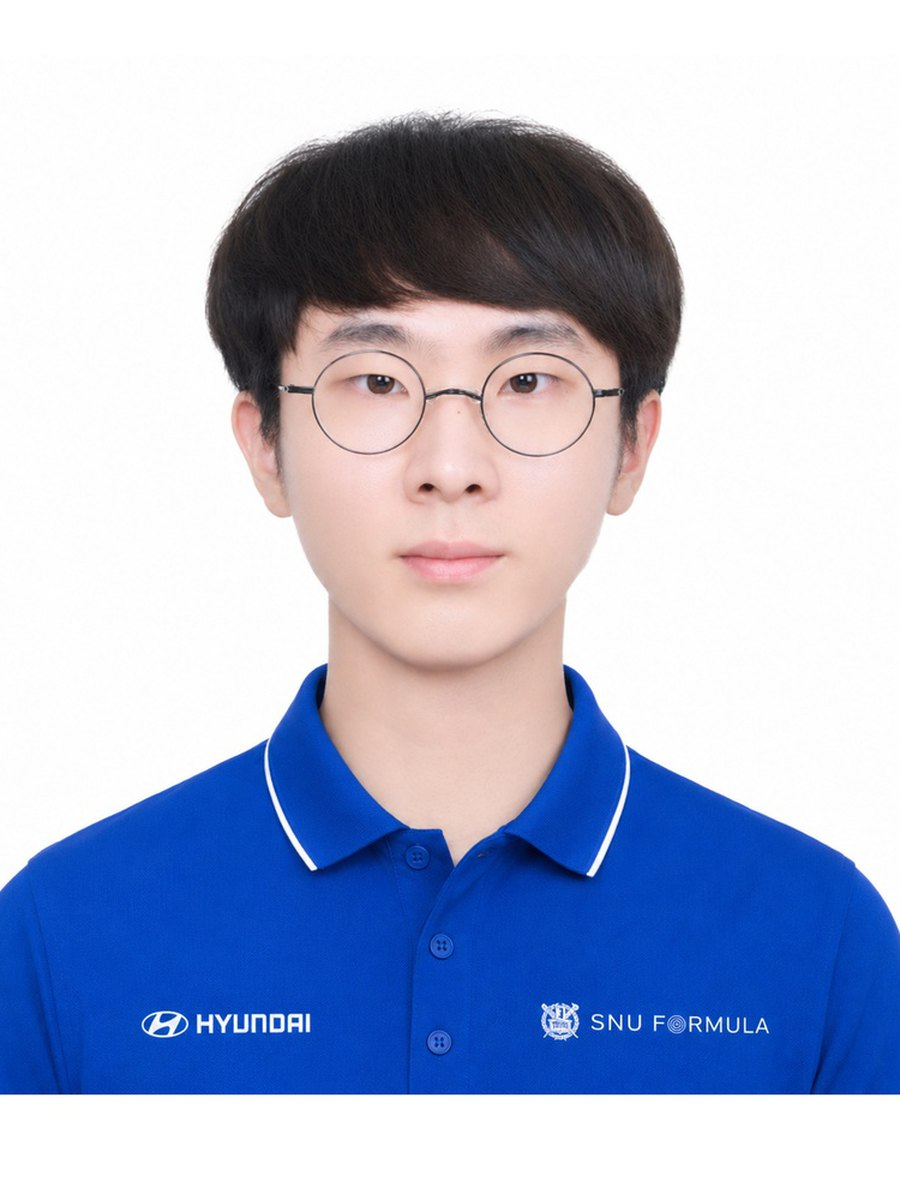
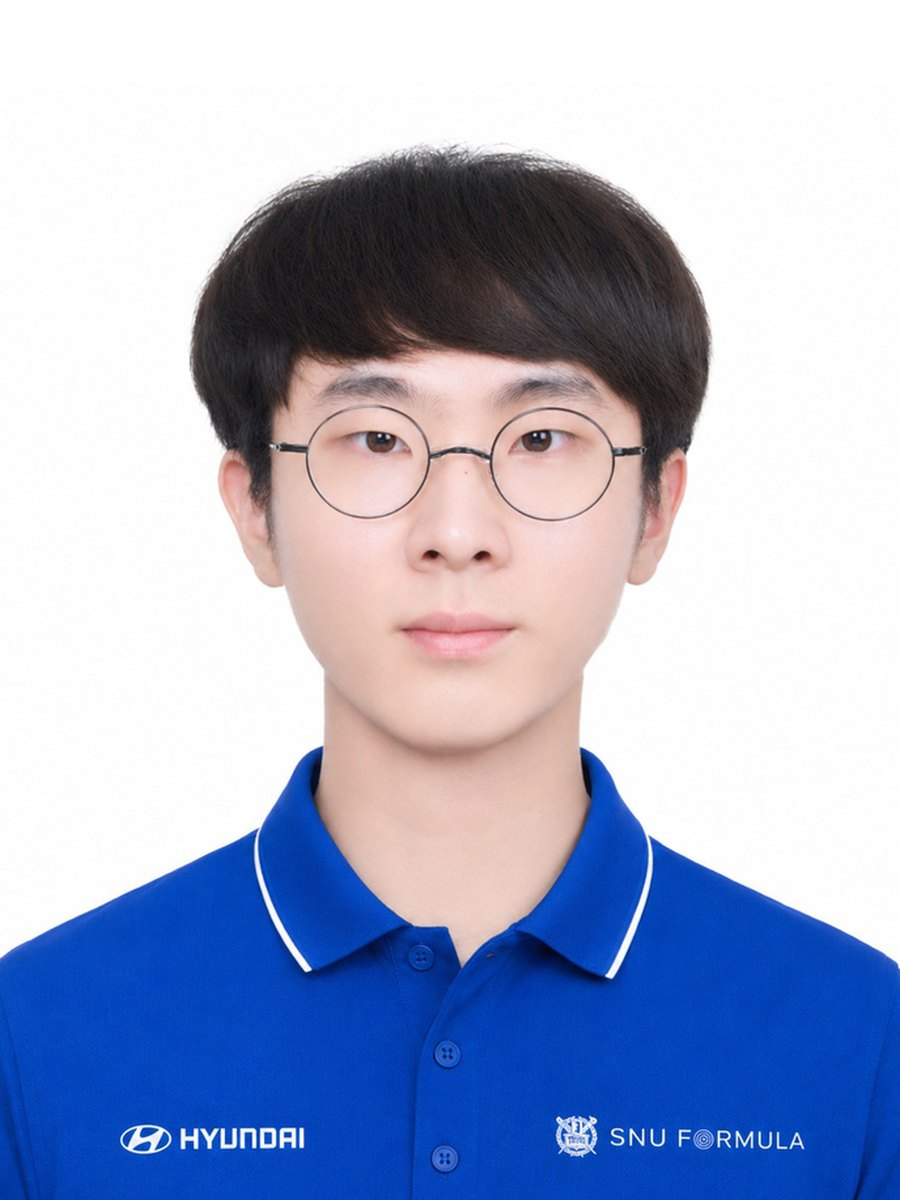
fix(members): align every portrait and put schooling on one line
The portraits were cropped to a fixed 3:4 window on the source, so head
size, head position and the amount of empty space above each person all
differed, and the chest logos landed at different heights - visible on
some cards, cropped off on others.

Each portrait is now built from two measured anchors instead:

  - the top of the head always lands at 12% of the card height
  - the bottom of the HYUNDAI / SNU FORMULA chest logo always lands at 96%

Both are measured per photo: the head from the subject silhouette against
the backdrop, the logo from the last white cluster sitting inside the blue
of the shirt. Head size then varies by a few percent between people, which
is far less visible than a logo line that wanders.

Anchoring this way needs almost no invented content - seven of the eleven
photos crop from the source untouched. Four are a little short below the
logo (유민우's runs to 3px from the frame edge), so the shirt is continued
for 16-42 rows by repeating a clean strip of that person's own fabric,
colour-matched at the join and smoothed across it. Backdrops are pulled to
a common white so the set reads as one shoot.

High school moves out of the detail list and joins the university on the
.roster-major line, as "고등학교 · 대학교 학과". Members without one show
the university alone. The roster-bio and roster-pending rules go with it.

diff --git a/team/index.html b/team/index.html
@@ -79,10 +79,8 @@
                     규격은 같은 폴더의 README.md 참고 (3:4, 900×1200, JPG).
                     alt에는 "한글이름 (ROMANIZED NAME)"을 적습니다.
           2) 이름 : .roster-name
-          3) 학과 : .roster-major
-          4) 약력 : .roster-bio 의 <li>. 지금은 고등학교만 넣었고, 고등학교가
-                    없는 구성원은 <ul class="roster-bio"> 블록을 통째로
-                    비워둡니다. 줄을 늘려도 레이아웃은 유지됩니다.
+          3) 학력 : .roster-major 한 줄에 몰아서 적습니다. 고등학교가 있으면
+                    "고등학교 · 대학교 학과" 순서로, 없으면 대학교만 적습니다.
 
         사진이 아직 없는 구성원은 <figure class="roster-photo"> 안의 <img>
         대신 아래 한 줄을 넣으면 자리표시자가 나옵니다.
@@ -181,12 +179,9 @@
                       <span class="lang lang-en">KIM MINGYU</span>
                     </h3>
                     <p class="roster-major">
-                      <span class="lang lang-ko">서울대학교 전기정보공학부 학사 · 재료공학부 석사</span>
-                      <span class="lang lang-en">BS Electrical &amp; Computer Engineering · MS Materials Science, SNU</span>
+                      <span class="lang lang-ko">한국과학영재학교 · 서울대학교 전기정보공학부 학사, 재료공학부 석사</span>
+                      <span class="lang lang-en">Korea Science Academy of KAIST · BS Electrical &amp; Computer Engineering, MS Materials Science, SNU</span>
                     </p>
-                    <ul class="roster-bio">
-                      <li><span class="lang lang-ko">한국과학영재학교</span><span class="lang lang-en">Korea Science Academy of KAIST</span></li>
-                    </ul>
                   </div>
                 </article>
                 <article class="roster-card">
@@ -230,12 +225,9 @@
                       <span class="lang lang-en">KIM MINWOO</span>
                     </h3>
                     <p class="roster-major">
-                      <span class="lang lang-ko">서울대학교 기계공학부</span>
-                      <span class="lang lang-en">Mechanical Engineering, SNU</span>
+                      <span class="lang lang-ko">Scottish 국제고등학교 · 서울대학교 기계공학부</span>
+                      <span class="lang lang-en">Scottish International High School · Mechanical Engineering, SNU</span>
                     </p>
-                    <ul class="roster-bio">
-                      <li><span class="lang lang-ko">Scottish 국제고등학교</span><span class="lang lang-en">Scottish International High School</span></li>
-                    </ul>
                   </div>
                 </article>
                 <article class="roster-card">
@@ -265,12 +257,9 @@
                       <span class="lang lang-en">LEE GYUWON</span>
                     </h3>
                     <p class="roster-major">
-                      <span class="lang lang-ko">서울대학교 항공우주공학부</span>
-                      <span class="lang lang-en">Aerospace Engineering, SNU</span>
+                      <span class="lang lang-ko">세종과학예술고등학교 · 서울대학교 항공우주공학부</span>
+                      <span class="lang lang-en">Sejong Science and Arts High School · Aerospace Engineering, SNU</span>
                     </p>
-                    <ul class="roster-bio">
-                      <li><span class="lang lang-ko">세종과학예술고등학교</span><span class="lang lang-en">Sejong Science and Arts High School</span></li>
-                    </ul>
                   </div>
                 </article>
                 <article class="roster-card">
@@ -284,12 +273,9 @@
                       <span class="lang lang-en">LEE JAEJUN</span>
                     </h3>
                     <p class="roster-major">
-                      <span class="lang lang-ko">서울대학교 기계공학부</span>
-                      <span class="lang lang-en">Mechanical Engineering, SNU</span>
+                      <span class="lang lang-ko">경기과학고등학교 · 서울대학교 기계공학부</span>
+                      <span class="lang lang-en">Gyeonggi Science High School · Mechanical Engineering, SNU</span>
                     </p>
-                    <ul class="roster-bio">
-                      <li><span class="lang lang-ko">경기과학고등학교</span><span class="lang lang-en">Gyeonggi Science High School</span></li>
-                    </ul>
                   </div>
                 </article>
                 <article class="roster-card">
@@ -303,12 +289,9 @@
                       <span class="lang lang-en">YOON JONGHWAN</span>
                     </h3>
                     <p class="roster-major">
-                      <span class="lang lang-ko">서울대학교 기계공학부</span>
-                      <span class="lang lang-en">Mechanical Engineering, SNU</span>
+                      <span class="lang lang-ko">경기과학고등학교 · 서울대학교 기계공학부</span>
+                      <span class="lang lang-en">Gyeonggi Science High School · Mechanical Engineering, SNU</span>
                     </p>
-                    <ul class="roster-bio">
-                      <li><span class="lang lang-ko">경기과학고등학교</span><span class="lang lang-en">Gyeonggi Science High School</span></li>
-                    </ul>
                   </div>
                 </article>
                 <article class="roster-card">
@@ -322,12 +305,9 @@
                       <span class="lang lang-en">KIM DOOEUN</span>
                     </h3>
                     <p class="roster-major">
-                      <span class="lang lang-ko">서울대학교 기계공학부</span>
-                      <span class="lang lang-en">Mechanical Engineering, SNU</span>
+                      <span class="lang lang-ko">세종과학고등학교 · 서울대학교 기계공학부</span>
+                      <span class="lang lang-en">Sejong Science High School · Mechanical Engineering, SNU</span>
                     </p>
-                    <ul class="roster-bio">
-                      <li><span class="lang lang-ko">세종과학고등학교</span><span class="lang lang-en">Sejong Science High School</span></li>
-                    </ul>
                   </div>
                 </article>
                 <article class="roster-card">
@@ -357,12 +337,9 @@
                       <span class="lang lang-en">CHO YONGWOO</span>
                     </h3>
                     <p class="roster-major">
-                      <span class="lang lang-ko">서울대학교 식물생산과학부</span>
-                      <span class="lang lang-en">Plant Science, SNU</span>
+                      <span class="lang lang-ko">서울과학고등학교 · 서울대학교 식물생산과학부</span>
+                      <span class="lang lang-en">Seoul Science High School · Plant Science, SNU</span>
                     </p>
-                    <ul class="roster-bio">
-                      <li><span class="lang lang-ko">서울과학고등학교</span><span class="lang lang-en">Seoul Science High School</span></li>
-                    </ul>
                   </div>
                 </article>
               </div>

diff --git a/assets/styles.css b/assets/styles.css
@@ -1631,46 +1631,12 @@ body.intro-active {
 }
 
 .roster-major {
-  margin: 8px 0 0;
-  color: rgba(255, 255, 255, 0.72);
-  font-size: clamp(12px, 0.95vw, 14px);
-}
-
-.roster-bio {
-  display: flex;
-  margin-top: 14px;
+  margin: 14px 0 0;
   padding-top: 14px;
-  flex-direction: column;
-  gap: 6px;
   border-top: 1px solid rgba(255, 255, 255, 0.14);
-  color: rgba(255, 255, 255, 0.6);
+  color: rgba(255, 255, 255, 0.66);
   font-size: clamp(12px, 0.92vw, 14px);
-  line-height: 1.5;
-}
-
-.roster-bio li {
-  position: relative;
-  padding-left: 12px;
-}
-
-.roster-bio li::before {
-  position: absolute;
-  top: 0.68em;
-  left: 0;
-  width: 5px;
-  height: 1px;
-  background: var(--gold);
-  content: "";
-}
-
-.roster-pending {
-  margin: clamp(32px, 3.5vw, 52px) 0 0;
-  padding-top: 18px;
-  border-top: 1px solid var(--line);
-  color: var(--muted);
-  font-family: var(--font-brand);
-  font-size: clamp(9px, 0.72vw, 11px);
-  line-height: 1.6;
+  line-height: 1.55;
 }
 
 .partner-hero-network {
